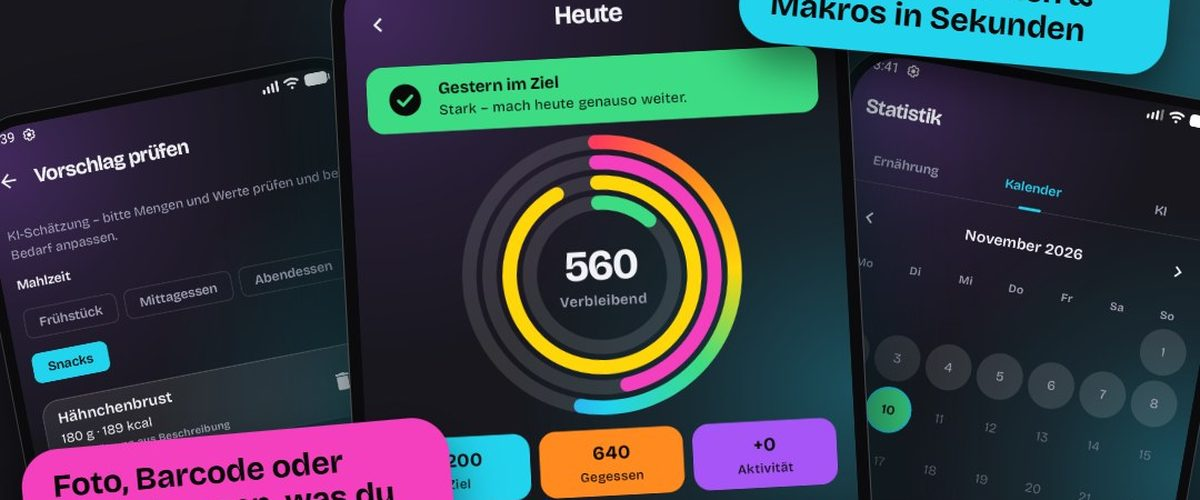
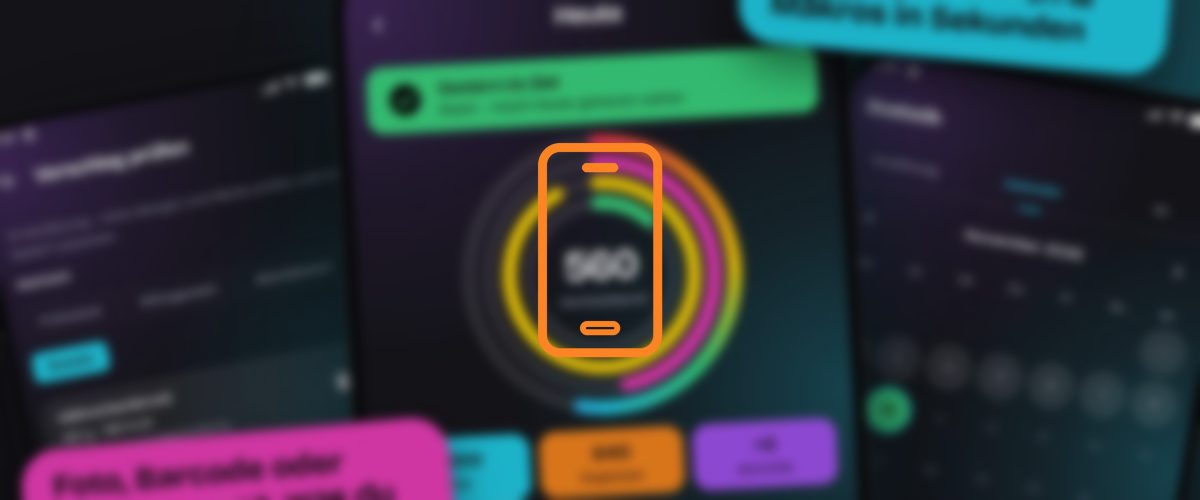
Dunories-Projektbild im Stil der anderen Karten

diff --git a/index.html b/index.html
@@ -70,7 +70,7 @@
  </div>
  <div class=card-grid>
  <article class=card>
- <img src="assets/dunories.jpg" class=card-image alt="Startbildschirm der Android-App Dunories mit Kalorienringen" width=1200 height=500 loading=lazy>
+ <img src="assets/dunories.jpg" class=card-image alt="Android-App Dunories" width=1200 height=500 loading=lazy>
  <div class=card-content>
  <h3 class=card-title>Dunories – Android-App</h3>
  <p>Eigene Android-App, um Kalorien, Makros und Gewicht zu tracken. Essen wird per Foto, Barcode oder Spracheingabe erfasst, Gemini schätzt die Nährwerte. Alle Daten bleiben lokal auf dem Gerät, ganz ohne Konto.</p>
